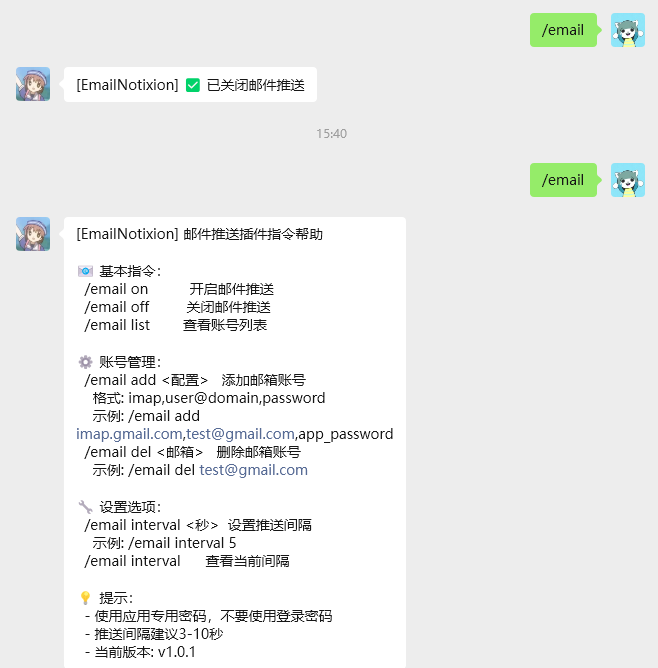
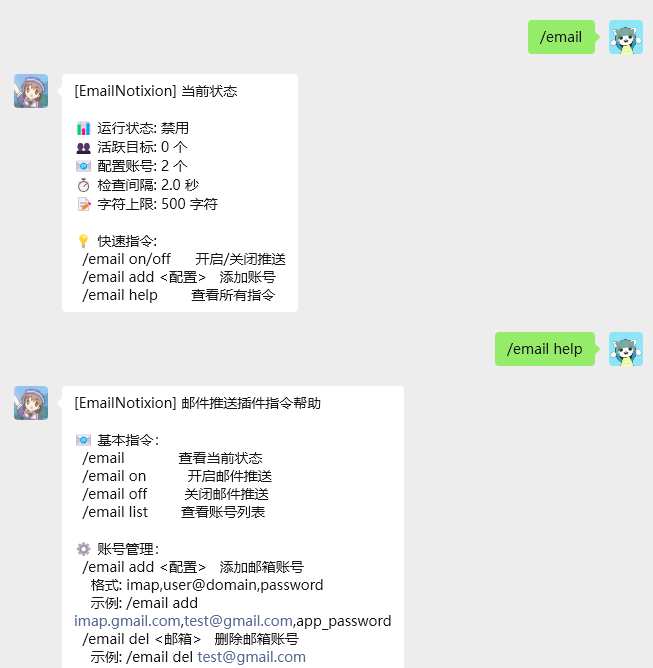
指令更新

diff --git a/main.py b/main.py
@@ -11,7 +11,7 @@ from .xmail import EmailNotifier
     "EmailNotixion",
     "Temmie",
     "实时 IMAP 邮件推送插件",
-    "v1.0.1",
+    "v1.0.2",
     "https://github.com/OlyMarco/EmailNotixion",
 )
 class EmailNotixion(Star):
@@ -20,12 +20,13 @@ class EmailNotixion(Star):
     ### 指令 `/email`（`/mail` 别名）
     | 用法 | 说明 |
     |------|------|
-    | `/email` | 开/关切换 |
+    | `/email` | 显示当前状态 |
     | `/email on` / `off` | 显式开/关 |
     | `/email add imap,user@domain,password` | 添加账号 |
     | `/email del user@domain.com` | 删除账号（需要完整邮箱地址，精确匹配） |
     | `/email list` | 查看账号列表 |
     | `/email interval <秒>` | 设置推送间隔；不带参数查看当前值 |
+    | `/email help` | 查看详细帮助信息 |
     """
 
     # ─────────────────────────── 初始化 ───────────────────────────
@@ -245,28 +246,11 @@ class EmailNotixion(Star):
             yield event.plain_result(text)
             return
 
-        # ── 开关控制 ──
-        if action in {"on", "start", "enable"}:
-            self._targets.add(uid)
-            if not self._is_running:
-                self._start_email_service()
-            yield event.plain_result(f"[EmailNotixion] ⏳ 邮件推送已开启 (每 {self._interval}s)")
-            return
-
-        if action in {"off", "stop", "disable"}:
-            if uid in self._targets:
-                self._targets.discard(uid)
-                if not self._targets:
-                    await self._stop_email_service()
-                yield event.plain_result("[EmailNotixion] ✅ 已关闭邮件推送")
-            else:
-                yield event.plain_result("[EmailNotixion] 未开启，无需关闭")
-            return
-
-        # 默认显示帮助信息
-        help_text = """[EmailNotixion] 邮件推送插件指令帮助
+        if action == "help":
+            help_text = """[EmailNotixion] 邮件推送插件指令帮助
 
 📧 基本指令：
+  /email             查看当前状态
   /email on          开启邮件推送
   /email off         关闭邮件推送
   /email list        查看账号列表
@@ -286,8 +270,46 @@ class EmailNotixion(Star):
 💡 提示：
   - 使用应用专用密码，不要使用登录密码
   - 推送间隔建议3-10秒
-  - 当前版本: v1.0.1"""
-        yield event.plain_result(help_text)
+  - 当前版本: v1.0.2"""
+            yield event.plain_result(help_text)
+            return
+
+        # ── 开关控制 ──
+        if action in {"on", "start", "enable"}:
+            self._targets.add(uid)
+            if not self._is_running:
+                self._start_email_service()
+            yield event.plain_result(f"[EmailNotixion] ⏳ 邮件推送已开启 (每 {self._interval}s)")
+            return
+
+        if action in {"off", "stop", "disable"}:
+            if uid in self._targets:
+                self._targets.discard(uid)
+                if not self._targets:
+                    await self._stop_email_service()
+                yield event.plain_result("[EmailNotixion] ✅ 已关闭邮件推送")
+            else:
+                yield event.plain_result("[EmailNotixion] 未开启，无需关闭")
+            return
+
+        # 默认显示当前状态信息
+        status = "启用" if self._is_running else "禁用"
+        active_targets = len(self._targets)
+        accounts_count = len(self._get_accounts())
+        
+        status_text = f"""[EmailNotixion] 当前状态
+
+📊 运行状态: {status}
+👥 活跃目标: {active_targets} 个
+📧 配置账号: {accounts_count} 个
+⏱ 检查间隔: {self._interval} 秒
+📝 字符上限: {self._text_num} 字符
+
+💡 快速指令:
+  /email on/off      开启/关闭推送
+  /email add <配置>   添加账号
+  /email help        查看所有指令"""
+        yield event.plain_result(status_text)
 
     # ───────────────────────── 服务管理 ─────────────────────────
 

diff --git a/README.md b/README.md
@@ -23,7 +23,7 @@
 
 ## 版本更新记录
 
-### v1.0.1 (最新版本)
+### v1.0.2 (最新版本)
 - 🆕 增强平台兼容性：支持所有AstrBot支持的消息平台
 - 🆕 改进邮件内容解析：支持读取卡片消息和富文本内容
 - 🆕 新增内容长度限制：可配置邮件主题和内容的最大字符数
@@ -51,7 +51,8 @@
 
 | 用法 | 说明 |
 |------|------|
-| `/email` | 显示指令帮助信息 |
+| `/email` | 显示当前状态信息 |
+| `/email help` | 显示详细指令帮助 |
 | `/email on` / `/email off` | 显式开启/关闭推送 |
 | `/email list` | 查看当前配置的账号列表 |
 | `/email interval <秒>` | 设置推送间隔；不带参数查看当前值 |
